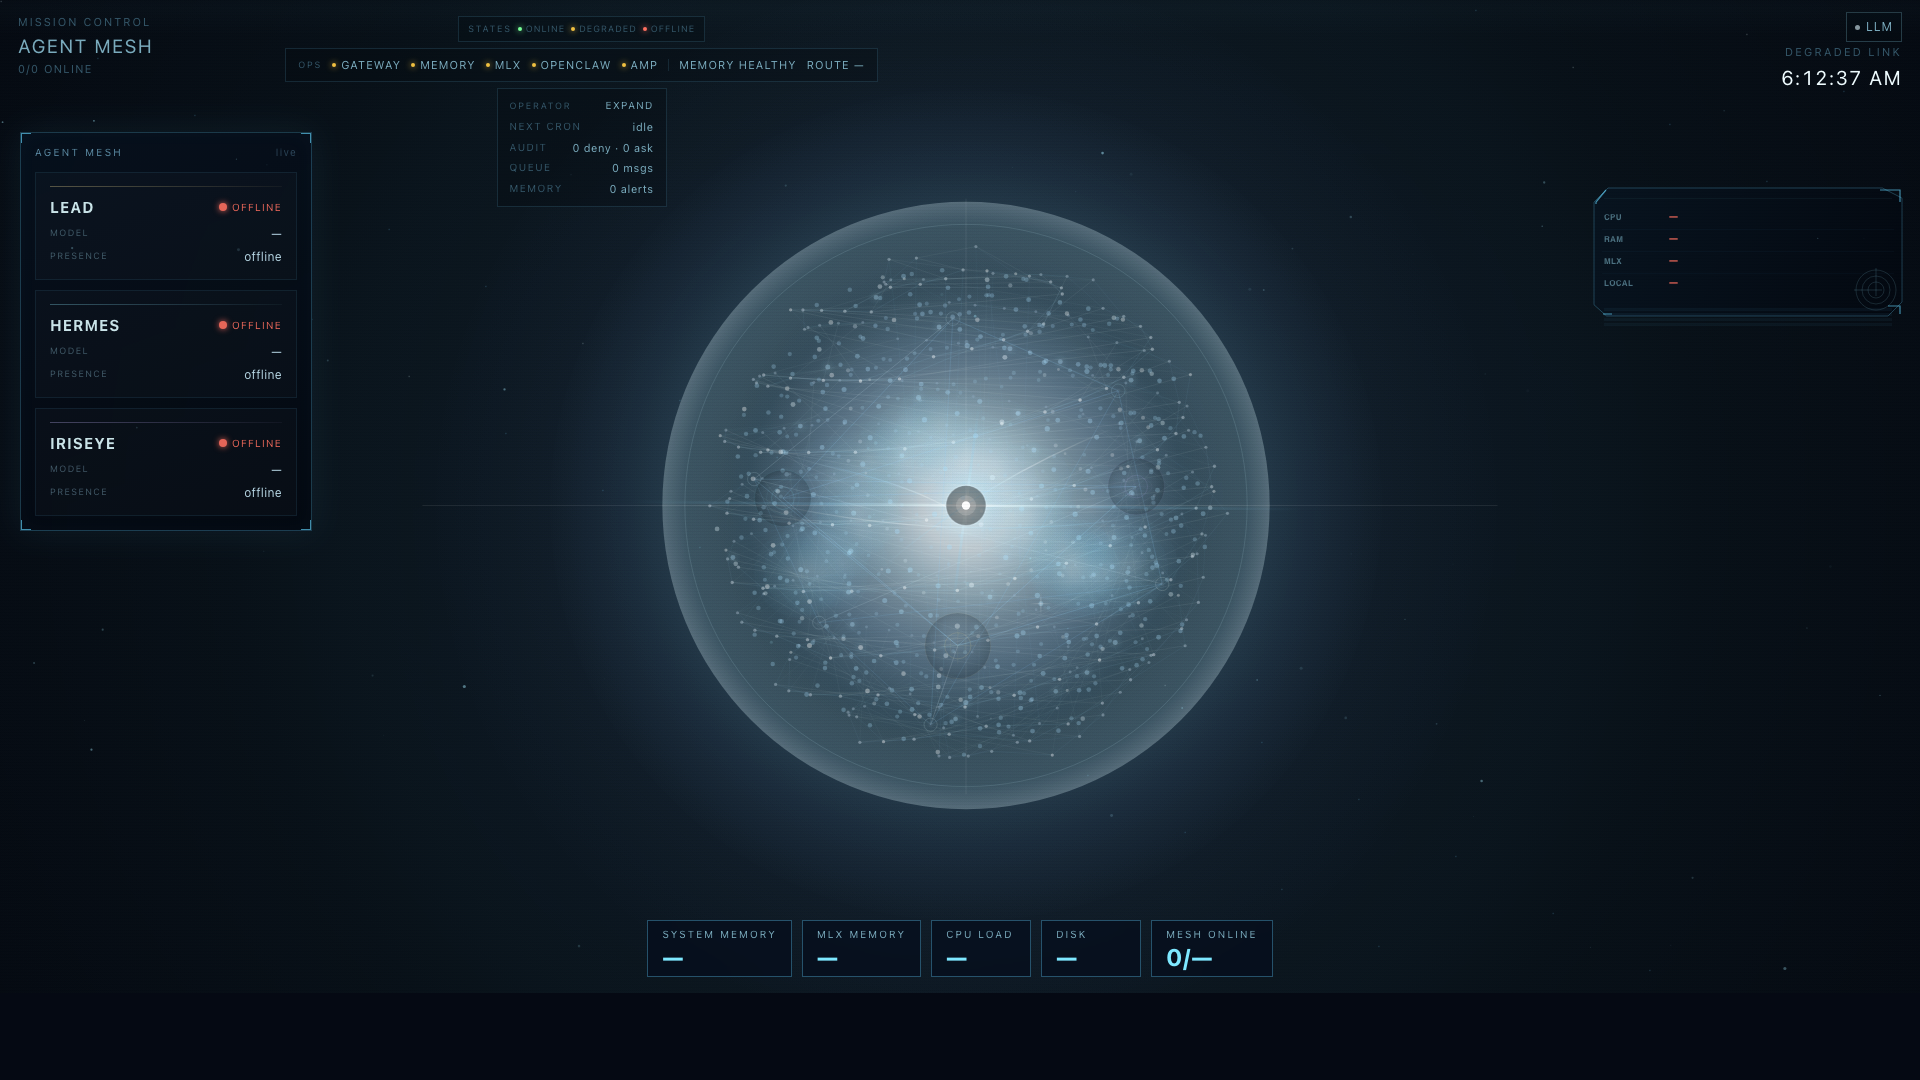
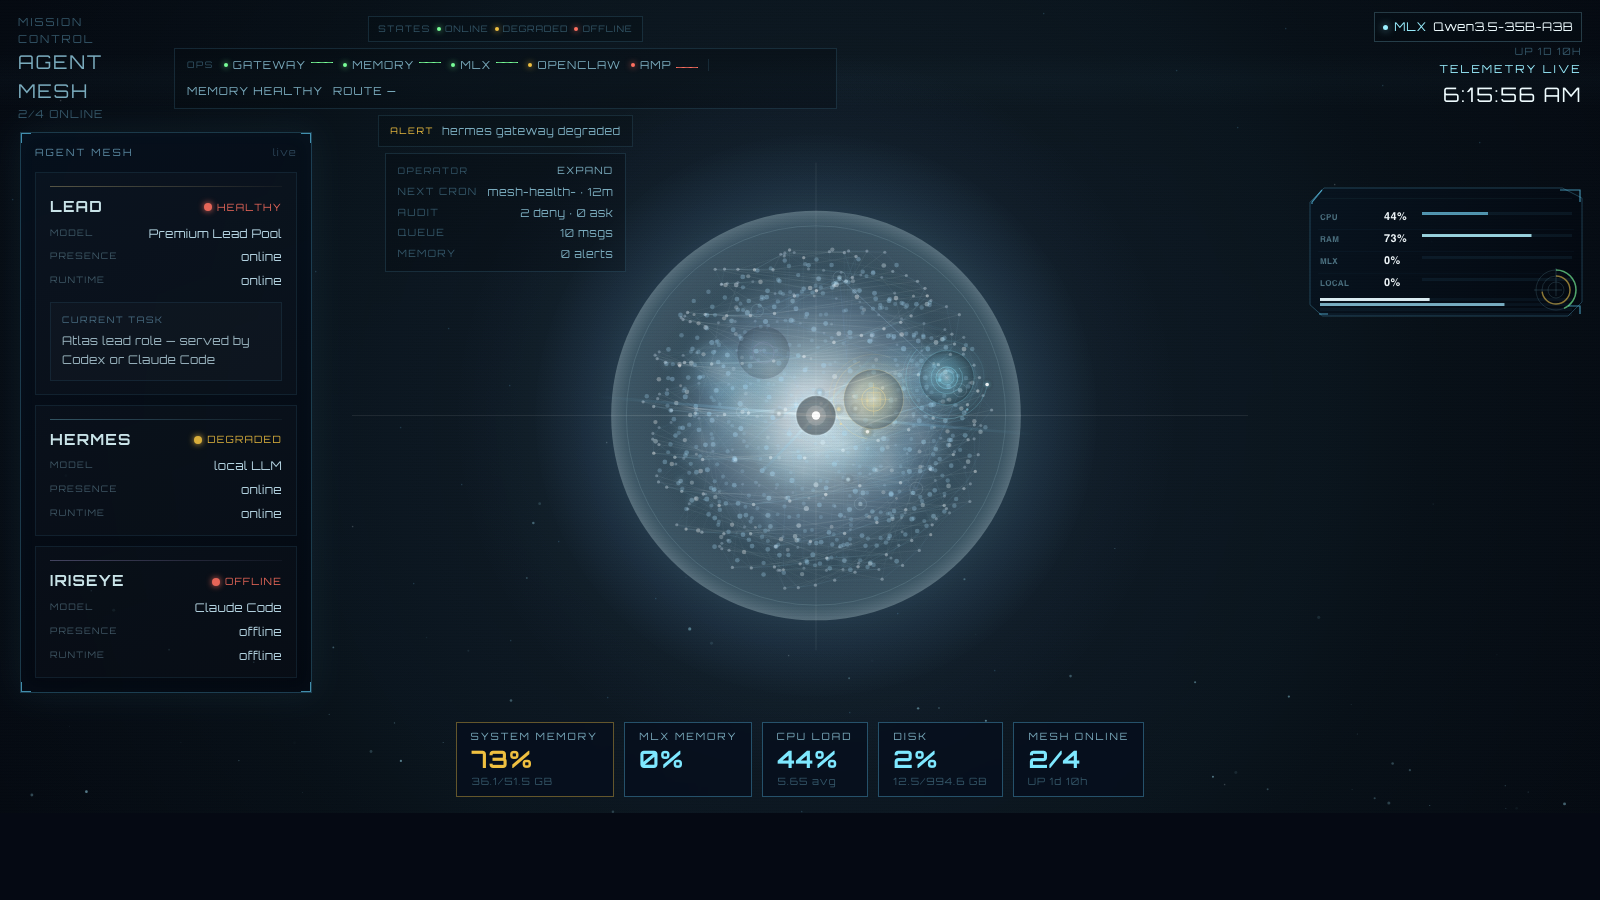
Refresh live dashboard screenshots

diff --git a/README.md b/README.md
@@ -18,7 +18,7 @@ Real-time dashboard for multi-agent AI systems — built for the **Claude Code +
 
 ## Visuals
 
-- [Full dashboard capture](assets/dashboard-full.png)
+- [Current dashboard capture](assets/dashboard-full.png)
 - [Focused preview capture](assets/dashboard-preview.png)
 - [Release history](CHANGELOG.md)
 
